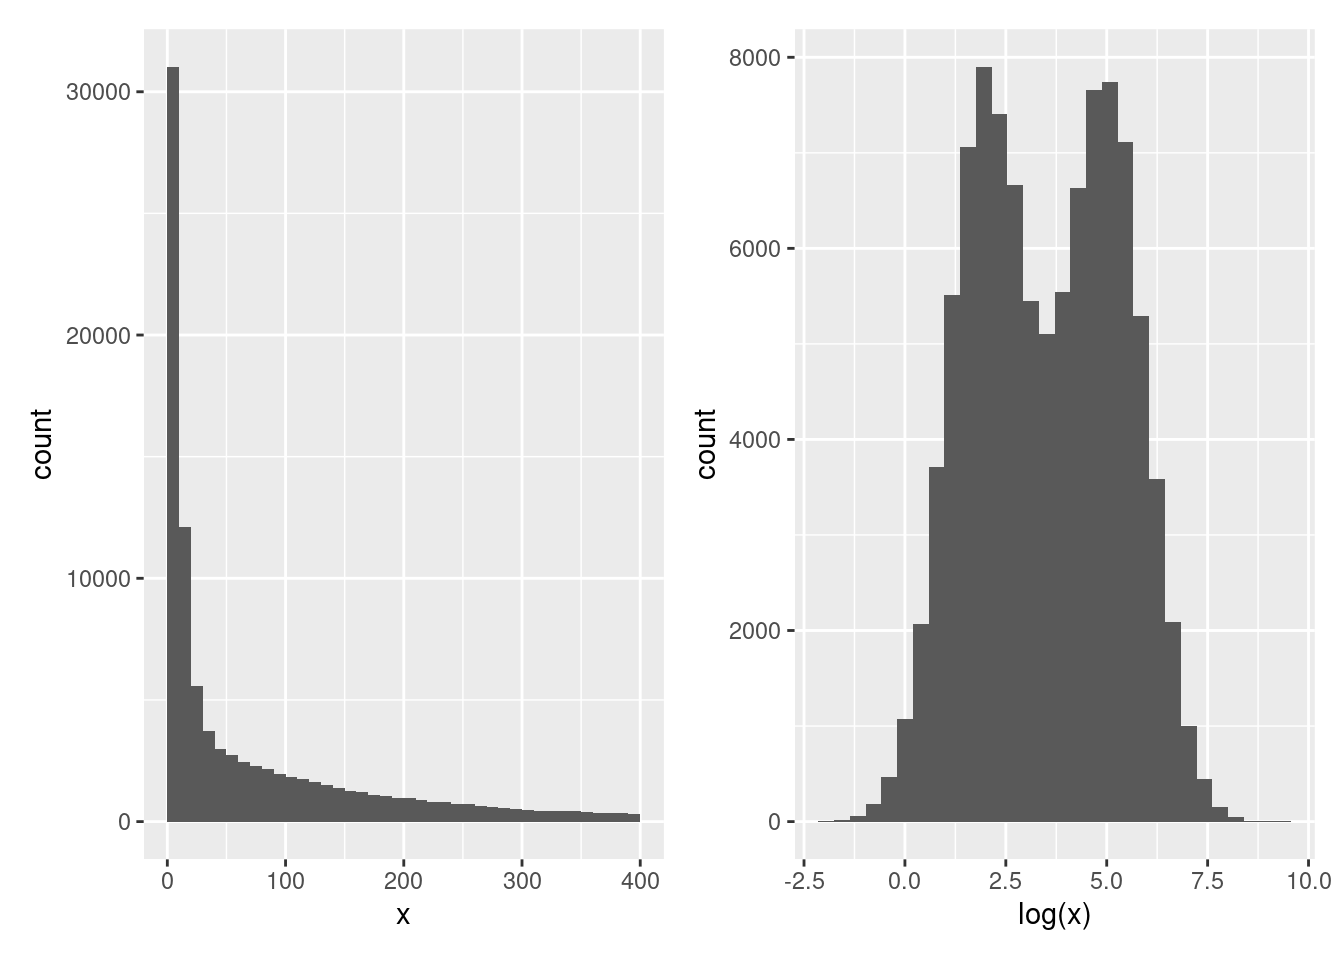
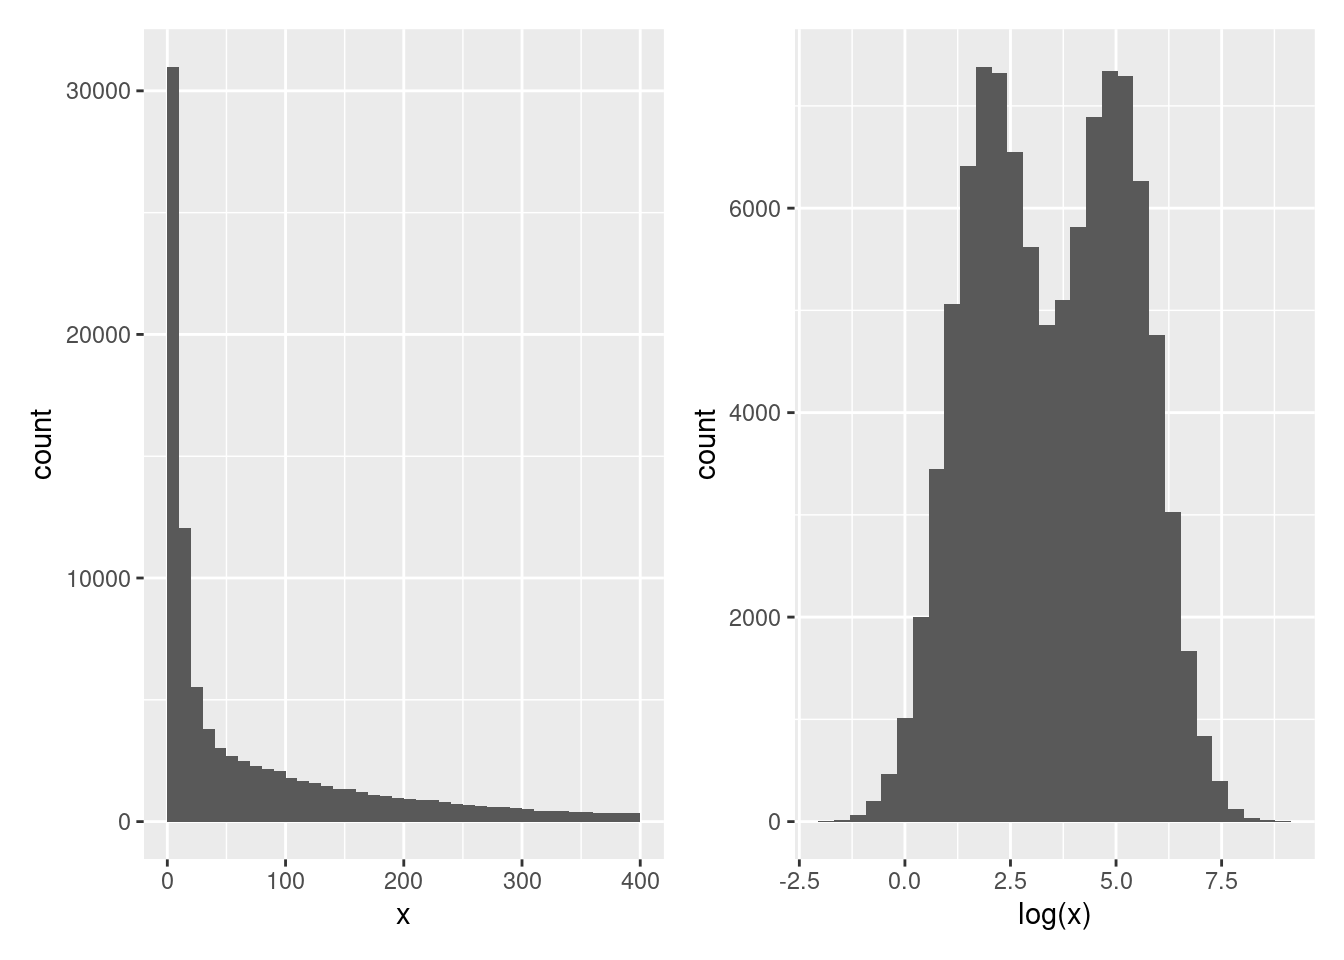
build book

diff --git a/docs/sec-norm.html b/docs/sec-norm.html
@@ -13,7 +13,7 @@
 
 <meta name="author" content="Laurent Gatto" />
 
-<meta name="date" content="2022-10-03" />
+<meta name="date" content="2022-10-10" />
 
 <script type="text/x-mathjax-config">
 MathJax.Hub.Config({
@@ -242,21 +242,21 @@ and the observed differences would be due to <strong>technical</strong> and
 <p>In biomedical research, experiments aim at measuring biological
 variability by comparing two or more biological conditions in a
 controlled setting. If we now take two independent cell cultures and
-treat one of them using a drug, and them measure the two samples, do
+treat one of them using a drug, and then measure the two samples, do
 you expect there to be larger, similar or smaller difference than in
 the examples above? Why?</p>
 <p>The observed differences between the two samples would comprise
 <strong>technical variability</strong>, <strong>biological variability</strong> and additional
-<strong>biological variability due to the treatment</strong>. The be able to
+<strong>biological variability due to the treatment</strong>. To be able to
 measure any biologically signal in the data, the biological
-variability, and the one produced by the treatment of interest in
-particular, must be larger than the technical variability.</p>
+variability of interest, i.e. the one produced by the treatment,
+must be larger than the technical variability.</p>
 </li>
 </ul>
-<p>However, before analysing any data, it is often (always) necessary
-to make the samples as comparable as possible by removing the
+<p>However, before analysing any data, it is often (always) necessary to
+make the samples as comparable as possible by removing the unwanted
 technical variability (that should be shared among all samples)
-without removing biological variability (that will differantiate the
+without removing biological variability (that will differentiate the
 samples biologically).</p>
 </div>
 <div id="data-transformation" class="section level2" number="5.2">
@@ -266,7 +266,7 @@ samples biologically).</p>
 <p>The very first step in preparing a dataset is to visualise the
 distribution of the values. Below we see the density plots for 6
 proteomics samples and about 4000 peptides from the CPTAC study that
-compares the reproducibility of quantiative mass spectrometry using
+compares the reproducibility of quantitative mass spectrometry using
 human proteins spiked into a yeast proteome background.</p>
 <div class="figure">
 <span style="display:block;" id="fig:logtans"></span>
@@ -293,12 +293,12 @@ some very high values:</p>
 ##  Max.   :112820000   Max.   :94944000   Max.   :128870000</code></pre>
 <p>Such data are difficult to visualise and to analyse, because of the skewness of their
 distribution. The first step is thus generally (but
-not always<label for="tufte-sn-8" class="margin-toggle sidenote-number">8</label><input type="checkbox" id="tufte-sn-8" class="margin-toggle"><span class="sidenote"><span class="sidenote-number">8</span> When analysing count data, such as in the case of RNASeq
-of spectral counting in proteomics, it is better not to transform
+not always<label for="tufte-sn-8" class="margin-toggle sidenote-number">8</label><input type="checkbox" id="tufte-sn-8" class="margin-toggle"><span class="sidenote"><span class="sidenote-number">8</span> When analysing count data, such as in the case of RNA-Seq
+or spectral counting in proteomics, it is better not to transform
 the data and use dedicated distribution for count-based data. In
 the cases above, the <a href="https://en.wikipedia.org/wiki/Negative_binomial_distribution">negative binomial
 distribution</a>
-has been show to accurately model technical and biological
+has been shown to accurately model technical and biological
 variability of such experimental data.</span>) to log-transform the data, as shown below.</p>
 <div class="figure">
 <span style="display:block;" id="fig:logtrans2"></span>
@@ -346,9 +346,9 @@ later) and reproduce the figures above. See <code>?cptac</code> for details .</p
 </div>
 </div>
 <p>This is particularly important for fold-changes, as illustrated
-below. Typical threshold are 0.5 and 2 for down- and up-regulation,
-with lack of changes around 1. In log space these become -1 and 1, and
-symmetrically centred around 0.</p>
+below. Typical threshold for down- and up-regulation are 0.5 and 2,
+with the absence of any change around 1. In log2 space, these
+threshold become -1 and 1, and symmetrically centred around 0.</p>
 <div class="figure">
 <span style="display:block;" id="fig:lfc"></span>
 <p class="caption marginnote shownote">
@@ -746,7 +746,7 @@ implications for the normalisation step?</p>
 <a href="sec-mlintro.html"><button class="btn btn-default">Next</button></a>
 </p>
 <p class="build-date">Page built: 
-2022-10-03
+2022-10-10
  using 
 R version 4.2.1 (2022-06-23)
 </p>

diff --git a/docs/sec-si.html b/docs/sec-si.html
@@ -13,7 +13,7 @@
 
 <meta name="author" content="Laurent Gatto" />
 
-<meta name="date" content="2022-10-03" />
+<meta name="date" content="2022-10-10" />
 
 <script type="text/x-mathjax-config">
 MathJax.Hub.Config({
@@ -228,7 +228,7 @@ div.csl-indent {
 ##  [3] ComplexHeatmap_2.12.1                 class_7.3-20                         
 ##  [5] pRoloc_1.36.0                         BiocParallel_1.30.3                  
 ##  [7] MLInterfaces_1.76.0                   cluster_2.1.4                        
-##  [9] annotate_1.74.0                       XML_3.99-0.10                        
+##  [9] annotate_1.74.0                       XML_3.99-0.11                        
 ## [11] AnnotationDbi_1.58.0                  bioDist_1.68.0                       
 ## [13] KernSmooth_2.23-20                    factoextra_1.0.7                     
 ## [15] pRolocdata_1.34.0                     MSnbase_2.22.0                       
@@ -248,7 +248,7 @@ div.csl-indent {
 ## [43] Formula_1.2-4                         survival_3.4-0                       
 ## [45] lattice_0.20-45                       forcats_0.5.2                        
 ## [47] stringr_1.4.1                         dplyr_1.0.10                         
-## [49] purrr_0.3.4                           readr_2.1.3                          
+## [49] purrr_0.3.5                           readr_2.1.3                          
 ## [51] tidyr_1.2.1                           tibble_3.1.8                         
 ## [53] ggplot2_3.3.6                         tidyverse_1.3.2                      
 ## [55] rWSBIM1322_0.2.0                     
@@ -257,14 +257,14 @@ div.csl-indent {
 ##   [1] rappdirs_0.3.3           ModelMetrics_1.2.2.2     coda_0.19-4             
 ##   [4] bit64_4.0.5              knitr_1.40               DelayedArray_0.22.0     
 ##   [7] data.table_1.14.2        rpart_4.1.16             hardhat_1.2.0           
-##  [10] KEGGREST_1.36.3          RCurl_1.98-1.8           AnnotationFilter_1.20.0 
+##  [10] KEGGREST_1.36.3          RCurl_1.98-1.9           AnnotationFilter_1.20.0 
 ##  [13] doParallel_1.0.17        generics_0.1.3           preprocessCore_1.58.0   
-##  [16] RSQLite_2.2.17           future_1.28.0            proxy_0.4-27            
+##  [16] RSQLite_2.2.18           future_1.28.0            proxy_0.4-27            
 ##  [19] bit_4.0.4                tzdb_0.3.0               xml2_1.3.3              
-##  [22] lubridate_1.8.0          assertthat_0.2.1         isoband_0.2.5           
+##  [22] lubridate_1.8.0          assertthat_0.2.1         isoband_0.2.6           
 ##  [25] viridis_0.6.2            gargle_1.2.1             gower_1.0.0             
 ##  [28] xfun_0.33                hms_1.1.2                jquerylib_0.1.4         
-##  [31] evaluate_0.16            fansi_1.0.3              restfulr_0.0.15         
+##  [31] evaluate_0.17            fansi_1.0.3              restfulr_0.0.15         
 ##  [34] progress_1.2.2           dendextend_1.16.0        dbplyr_2.2.1            
 ##  [37] readxl_1.4.1             igraph_1.3.5             DBI_1.1.3               
 ##  [40] htmlwidgets_1.5.4        googledrive_2.0.0        ellipsis_0.3.2          
@@ -277,7 +277,7 @@ div.csl-indent {
 ##  [61] crayon_1.5.2             recipes_1.0.1            pkgconfig_2.0.3         
 ##  [64] labeling_0.4.2           nlme_3.1-159             vipor_0.4.5             
 ##  [67] nnet_7.3-18              globals_0.16.1           rlang_1.0.6             
-##  [70] lifecycle_1.0.2          LaplacesDemon_16.1.6     filelock_1.0.2          
+##  [70] lifecycle_1.0.3          LaplacesDemon_16.1.6     filelock_1.0.2          
 ##  [73] affyio_1.66.0            BiocFileCache_2.4.0      modelr_0.1.9            
 ##  [76] randomForest_4.7-1.1     cellranger_1.1.0         graph_1.74.0            
 ##  [79] Matrix_1.5-1             carData_3.0-5            reprex_2.0.2            
@@ -319,7 +319,7 @@ the following code:</p>
 <a href="sec-ccl.html"><button class="btn btn-default">Previous</button></a>
 </p>
 <p class="build-date">Page built: 
-2022-10-03
+2022-10-10
  using 
 R version 4.2.1 (2022-06-23)
 </p>

diff --git a/docs/sec-vis.html b/docs/sec-vis.html
@@ -13,7 +13,7 @@
 
 <meta name="author" content="Laurent Gatto" />
 
-<meta name="date" content="2022-10-03" />
+<meta name="date" content="2022-10-10" />
 
 <script type="text/x-mathjax-config">
 MathJax.Hub.Config({
@@ -917,7 +917,7 @@ of the data.</p>
 <span id="cb37-9"><a href="sec-vis.html#cb37-9" aria-hidden="true" tabindex="-1"></a>p2 <span class="ot">&lt;-</span>  <span class="fu">ggplot</span>(sim, <span class="fu">aes</span>(<span class="fu">log</span>(x))) <span class="sc">+</span></span>
 <span id="cb37-10"><a href="sec-vis.html#cb37-10" aria-hidden="true" tabindex="-1"></a>    <span class="fu">geom_histogram</span>(<span class="at">bins =</span> <span class="dv">30</span>)</span>
 <span id="cb37-11"><a href="sec-vis.html#cb37-11" aria-hidden="true" tabindex="-1"></a>p1 <span class="sc">+</span> p2</span></code></pre></div>
-<pre><code>## Warning: Removed 8036 rows containing non-finite values (stat_bin).</code></pre>
+<pre><code>## Warning: Removed 8047 rows containing non-finite values (stat_bin).</code></pre>
 <div class="figure">
 <span style="display:block;" id="fig:sim"></span>
 <p class="caption marginnote shownote">
@@ -1163,7 +1163,7 @@ otherwise. Below are some example outputs.</p>
 <a href="sec-obj.html"><button class="btn btn-default">Next</button></a>
 </p>
 <p class="build-date">Page built: 
-2022-10-03
+2022-10-10
  using 
 R version 4.2.1 (2022-06-23)
 </p>

diff --git a/docs/index.html b/docs/index.html
@@ -13,7 +13,7 @@
 
 <meta name="author" content="Laurent Gatto" />
 
-<meta name="date" content="2022-10-03" />
+<meta name="date" content="2022-10-10" />
 
 <script type="text/x-mathjax-config">
 MathJax.Hub.Config({
@@ -337,7 +337,7 @@ style</a> <span class="citation">(<label for="tufte-mn-10" class="margin-toggle"
 <a href="sec-refresher.html"><button class="btn btn-default">Next</button></a>
 </p>
 <p class="build-date">Page built: 
-2022-10-03
+2022-10-10
  using 
 R version 4.2.1 (2022-06-23)
 </p>

diff --git a/docs/sec-sl.html b/docs/sec-sl.html
@@ -13,7 +13,7 @@
 
 <meta name="author" content="Laurent Gatto" />
 
-<meta name="date" content="2022-10-03" />
+<meta name="date" content="2022-10-10" />
 
 <script type="text/x-mathjax-config">
 MathJax.Hub.Config({
@@ -1051,7 +1051,7 @@ most reliable assignments one, and setting the unreliable ones to
 <a href="sec-biovis.html"><button class="btn btn-default">Next</button></a>
 </p>
 <p class="build-date">Page built: 
-2022-10-03
+2022-10-10
  using 
 R version 4.2.1 (2022-06-23)
 </p>

diff --git a/docs/sec-biovis.html b/docs/sec-biovis.html
@@ -13,7 +13,7 @@
 
 <meta name="author" content="Laurent Gatto" />
 
-<meta name="date" content="2022-10-03" />
+<meta name="date" content="2022-10-10" />
 
 <script type="text/x-mathjax-config">
 MathJax.Hub.Config({
@@ -491,7 +491,7 @@ number of intersections (default is 40) become useful.</p>
 <a href="sec-ccl.html"><button class="btn btn-default">Next</button></a>
 </p>
 <p class="build-date">Page built: 
-2022-10-03
+2022-10-10
  using 
 R version 4.2.1 (2022-06-23)
 </p>

diff --git a/docs/sec-mlintro.html b/docs/sec-mlintro.html
@@ -13,7 +13,7 @@
 
 <meta name="author" content="Laurent Gatto" />
 
-<meta name="date" content="2022-10-03" />
+<meta name="date" content="2022-10-10" />
 
 <script type="text/x-mathjax-config">
 MathJax.Hub.Config({
@@ -759,7 +759,7 @@ but these are beyond the scope of this course.</p>
 <a href="sec-testing.html"><button class="btn btn-default">Next</button></a>
 </p>
 <p class="build-date">Page built: 
-2022-10-03
+2022-10-10
  using 
 R version 4.2.1 (2022-06-23)
 </p>

diff --git a/docs/sec-obj.html b/docs/sec-obj.html
@@ -13,7 +13,7 @@
 
 <meta name="author" content="Laurent Gatto" />
 
-<meta name="date" content="2022-10-03" />
+<meta name="date" content="2022-10-10" />
 
 <script type="text/x-mathjax-config">
 MathJax.Hub.Config({
@@ -995,7 +995,7 @@ of class <code>SummarizedExperiment</code>.</p>
 <a href="sec-biostrings.html"><button class="btn btn-default">Next</button></a>
 </p>
 <p class="build-date">Page built: 
-2022-10-03
+2022-10-10
  using 
 R version 4.2.1 (2022-06-23)
 </p>

diff --git a/docs/sec-ul.html b/docs/sec-ul.html
@@ -13,7 +13,7 @@
 
 <meta name="author" content="Laurent Gatto" />
 
-<meta name="date" content="2022-10-03" />
+<meta name="date" content="2022-10-10" />
 
 <script type="text/x-mathjax-config">
 MathJax.Hub.Config({
@@ -993,7 +993,7 @@ average marker profiles, such as shown below.</p></li>
 <a href="sec-sl.html"><button class="btn btn-default">Next</button></a>
 </p>
 <p class="build-date">Page built: 
-2022-10-03
+2022-10-10
  using 
 R version 4.2.1 (2022-06-23)
 </p>

diff --git a/docs/sec-refresher.html b/docs/sec-refresher.html
@@ -13,7 +13,7 @@
 
 <meta name="author" content="Laurent Gatto" />
 
-<meta name="date" content="2022-10-03" />
+<meta name="date" content="2022-10-10" />
 
 <script type="text/x-mathjax-config">
 MathJax.Hub.Config({
@@ -370,7 +370,7 @@ state it explicitly in your response.</p>
 <a href="sec-vis.html"><button class="btn btn-default">Next</button></a>
 </p>
 <p class="build-date">Page built: 
-2022-10-03
+2022-10-10
  using 
 R version 4.2.1 (2022-06-23)
 </p>

diff --git a/docs/sec-testing.html b/docs/sec-testing.html
@@ -13,7 +13,7 @@
 
 <meta name="author" content="Laurent Gatto" />
 
-<meta name="date" content="2022-10-03" />
+<meta name="date" content="2022-10-10" />
 
 <script type="text/x-mathjax-config">
 MathJax.Hub.Config({
@@ -1130,7 +1130,7 @@ conclusion now?</li>
 <a href="sec-dimred.html"><button class="btn btn-default">Next</button></a>
 </p>
 <p class="build-date">Page built: 
-2022-10-03
+2022-10-10
  using 
 R version 4.2.1 (2022-06-23)
 </p>

diff --git a/docs/404.html b/docs/404.html
@@ -13,7 +13,7 @@
 
 <meta name="author" content="Laurent Gatto" />
 
-<meta name="date" content="2022-10-03" />
+<meta name="date" content="2022-10-10" />
 
 <script type="text/x-mathjax-config">
 MathJax.Hub.Config({
@@ -206,7 +206,7 @@ the table of contents to find the page you are looking for.</p>
 <p style="text-align: center;">
 </p>
 <p class="build-date">Page built: 
-2022-10-03
+2022-10-10
  using 
 R version 4.2.1 (2022-06-23)
 </p>
